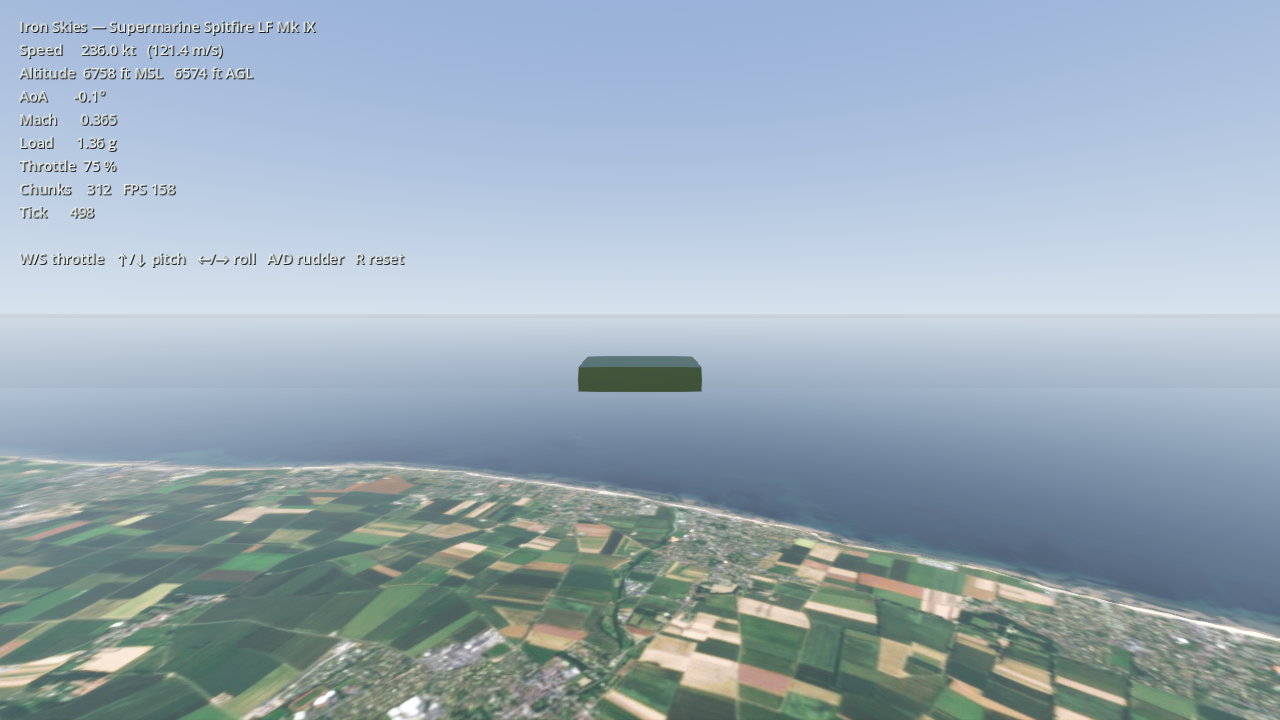
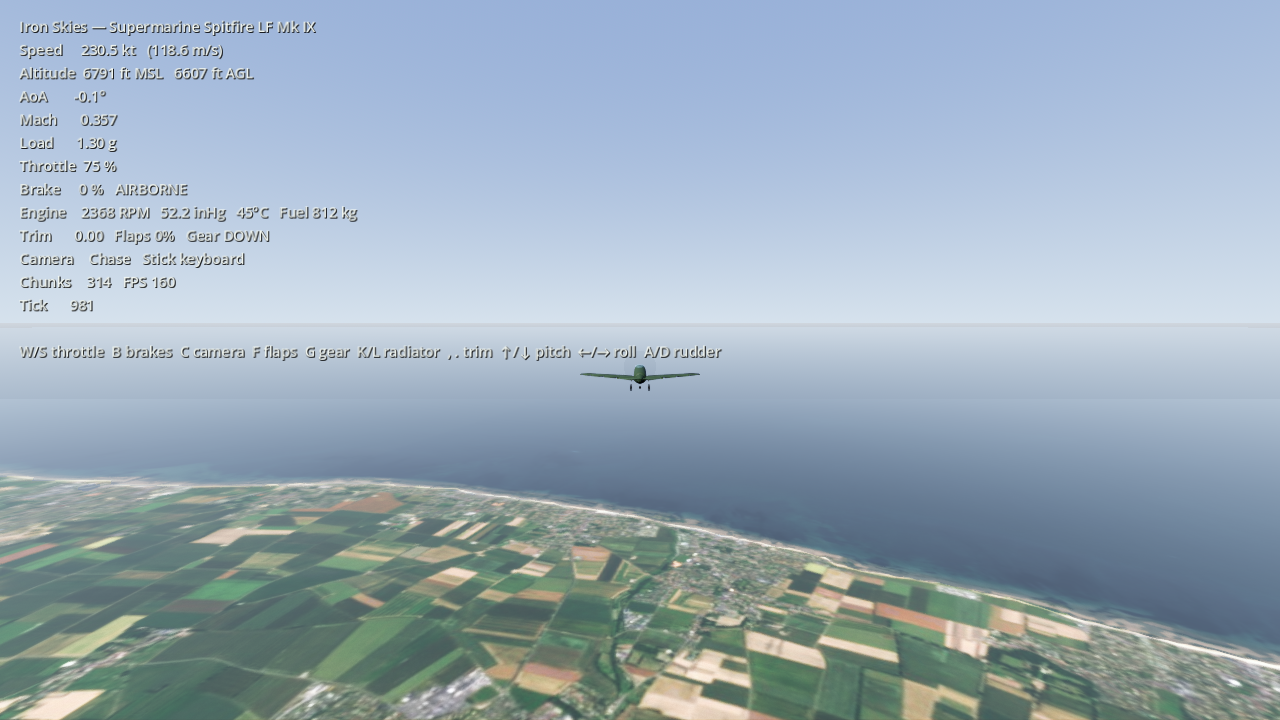
client: low-poly Spitfire silhouette, cockpit panel and animated prop
- custom elliptical wing mesh, tapered fuselage, tailplane, fin, canopy
- prop blur above 350 RPM, flap/gear animation from simulator state
- cockpit eye point with instrument panel and gunsight
- closer chase camera; hide nose/tail cylinder caps that showed inside the cockpit

diff --git a/game/scripts/SpitfireVisual.cs b/game/scripts/SpitfireVisual.cs
@@ -1,0 +1,294 @@
+using System;
+using Godot;
+using IronSkies.FlightModel.Aircraft;
+
+namespace IronSkies.Game;
+
+/// <summary>
+/// Low-poly Spitfire built from primitives and one custom elliptical wing mesh.
+/// Local axes follow the body frame: −Z forward, +X right, +Y up, origin at the CoG.
+/// This is a placeholder silhouette; the art pass replaces it with a proper model.
+/// </summary>
+public sealed partial class SpitfireVisual : Node3D
+{
+    private Node3D _propeller = null!;
+    private MeshInstance3D _propDisc = null!;
+    private readonly System.Collections.Generic.List<MeshInstance3D> _propBlades = new();
+    private Node3D _gearGroup = null!;
+    private Node3D _leftFlap = null!;
+    private Node3D _rightFlap = null!;
+
+    private StandardMaterial3D _camo = null!;
+    private StandardMaterial3D _dark = null!;
+    private StandardMaterial3D _metal = null!;
+    private StandardMaterial3D _glass = null!;
+    private StandardMaterial3D _tyre = null!;
+
+    public void Build()
+    {
+        _camo = Material(new Color(0.20f, 0.27f, 0.17f), 0.65f, 0.05f);
+        _dark = Material(new Color(0.08f, 0.08f, 0.08f), 0.80f);
+        _metal = Material(new Color(0.55f, 0.57f, 0.55f), 0.30f, 0.75f);
+        _tyre = Material(new Color(0.04f, 0.04f, 0.04f), 0.95f);
+        _glass = new StandardMaterial3D
+        {
+            AlbedoColor = new Color(0.55f, 0.70f, 0.75f, 0.22f),
+            Transparency = BaseMaterial3D.TransparencyEnum.Alpha,
+            Roughness = 0.05f,
+            Metallic = 0.20f,
+        };
+
+        BuildFuselage();
+        BuildWings();
+        BuildTail();
+        BuildGear();
+        BuildPropeller();
+        BuildCockpit();
+    }
+
+    public void UpdateFrom(AircraftSimulator sim, double delta)
+    {
+        float rpm = (float)(sim.EngineRpm / 3000.0);
+        _propeller.RotateZ((float)(rpm * 90.0 * delta));
+
+        bool blurred = sim.EngineRpm > 350.0;
+        _propDisc.Visible = blurred;
+        foreach (MeshInstance3D blade in _propBlades)
+        {
+            blade.Visible = !blurred;
+        }
+
+        float flap = (float)sim.FlapPosition * 0.7f;
+        _leftFlap.Rotation = new Vector3(flap, 0.0f, 0.0f);
+        _rightFlap.Rotation = new Vector3(flap, 0.0f, 0.0f);
+
+        _gearGroup.Visible = sim.GearPosition > 0.04;
+        _gearGroup.Scale = new Vector3(1.0f, (float)Math.Max(0.04, sim.GearPosition), 1.0f);
+    }
+
+    private void BuildFuselage()
+    {
+        var fuselage = new CapsuleMesh { Radius = 0.56f, Height = 5.6f, RadialSegments = 20 };
+        AddPart(this, fuselage, _camo, new Vector3(0, 0, 0.15f), new Vector3(90, 0, 0));
+
+        var nose = new CylinderMesh
+        {
+            TopRadius = 0.56f,
+            BottomRadius = 0.30f,
+            Height = 1.4f,
+            RadialSegments = 20,
+            CapTop = false,
+            CapBottom = false,
+        };
+        AddPart(this, nose, _camo, new Vector3(0, 0, -2.85f), new Vector3(90, 0, 0));
+
+        var tailCone = new CylinderMesh
+        {
+            TopRadius = 0.10f,
+            BottomRadius = 0.56f,
+            Height = 2.5f,
+            RadialSegments = 16,
+            CapTop = false,
+            CapBottom = false,
+        };
+        AddPart(this, tailCone, _camo, new Vector3(0, 0, 3.05f), new Vector3(90, 0, 0));
+
+        var spinner = new CylinderMesh
+        {
+            TopRadius = 0.30f,
+            BottomRadius = 0.02f,
+            Height = 0.65f,
+            RadialSegments = 20,
+        };
+        AddPart(this, spinner, _metal, new Vector3(0, 0, -4.02f), new Vector3(90, 0, 0));
+
+        var radiator = new BoxMesh { Size = new Vector3(0.55f, 0.22f, 1.1f) };
+        AddPart(this, radiator, _dark, new Vector3(0, -0.52f, 0.15f));
+
+        var exhaust = new BoxMesh { Size = new Vector3(0.10f, 0.10f, 0.55f) };
+        AddPart(this, exhaust, _dark, new Vector3(-0.48f, 0.10f, -2.45f));
+        AddPart(this, exhaust, _dark, new Vector3(0.48f, 0.10f, -2.45f));
+    }
+
+    private void BuildWings()
+    {
+        ArrayMesh wing = BuildWingMesh(
+            span: 5.55, rootChord: 2.35, tipChord: 0.70, thickness: 0.13,
+            yBase: -0.34, dihedral: 0.34, zCenter: 0.10);
+        AddPart(this, wing, _camo, Vector3.Zero);
+
+        _leftFlap = BuildFlap(-1.25f);
+        _rightFlap = BuildFlap(1.25f);
+    }
+
+    private Node3D BuildFlap(float x)
+    {
+        var pivot = new Node3D { Position = new Vector3(x, -0.31f, 0.62f) };
+        AddChild(pivot);
+        var flap = new BoxMesh { Size = new Vector3(1.45f, 0.06f, 0.46f) };
+        AddPart(pivot, flap, _camo, new Vector3(0, 0, 0.24f));
+        return pivot;
+    }
+
+    private void BuildTail()
+    {
+        ArrayMesh tailplane = BuildWingMesh(
+            span: 1.75, rootChord: 1.35, tipChord: 0.45, thickness: 0.08,
+            yBase: 0.14, dihedral: 0.02, zCenter: 3.65);
+        AddPart(this, tailplane, _camo, Vector3.Zero);
+
+        var fin = new BoxMesh { Size = new Vector3(0.07f, 1.15f, 0.95f) };
+        AddPart(this, fin, _camo, new Vector3(0, 0.62f, 4.02f), new Vector3(-8, 0, 0));
+
+        var rudder = new BoxMesh { Size = new Vector3(0.06f, 1.05f, 0.35f) };
+        AddPart(this, rudder, _camo, new Vector3(0, 0.58f, 4.55f));
+    }
+
+    private void BuildGear()
+    {
+        _gearGroup = new Node3D { Name = "Gear" };
+        AddChild(_gearGroup);
+
+        foreach (float side in new[] { -1.0f, 1.0f })
+        {
+            var leg = new BoxMesh { Size = new Vector3(0.08f, 1.10f, 0.08f) };
+            AddPart(_gearGroup, leg, _metal, new Vector3(side * 0.85f, -0.95f, -0.85f),
+                new Vector3(0, 0, side * 4.0f));
+
+            var wheel = new CylinderMesh { TopRadius = 0.33f, BottomRadius = 0.33f, Height = 0.20f, RadialSegments = 16 };
+            AddPart(_gearGroup, wheel, _tyre, new Vector3(side * 0.85f, -1.50f, -0.85f),
+                new Vector3(0, 0, 90));
+
+            var hub = new CylinderMesh { TopRadius = 0.10f, BottomRadius = 0.10f, Height = 0.22f, RadialSegments = 12 };
+            AddPart(_gearGroup, hub, _metal, new Vector3(side * 0.85f, -1.50f, -0.85f),
+                new Vector3(0, 0, 90));
+        }
+
+        var tailLeg = new BoxMesh { Size = new Vector3(0.06f, 0.40f, 0.06f) };
+        AddPart(_gearGroup, tailLeg, _metal, new Vector3(0, -0.22f, 4.72f));
+        var tailWheel = new CylinderMesh { TopRadius = 0.15f, BottomRadius = 0.15f, Height = 0.10f, RadialSegments = 12 };
+        AddPart(_gearGroup, tailWheel, _tyre, new Vector3(0, -0.41f, 4.90f), new Vector3(0, 0, 90));
+    }
+
+    private void BuildPropeller()
+    {
+        _propeller = new Node3D { Name = "Propeller", Position = new Vector3(0, 0, -4.38f) };
+        AddChild(_propeller);
+
+        for (int i = 0; i < 3; i++)
+        {
+            float angle = Mathf.DegToRad(i * 120.0f);
+            var blade = new BoxMesh { Size = new Vector3(0.13f, 1.55f, 0.05f) };
+            _propBlades.Add(AddPart(_propeller, blade, _dark,
+                new Vector3(Mathf.Sin(angle) * 0.82f, Mathf.Cos(angle) * 0.82f, 0.0f),
+                new Vector3(0, 0, Mathf.RadToDeg(angle))));
+        }
+
+        var disc = new CylinderMesh { TopRadius = 1.65f, BottomRadius = 1.65f, Height = 0.01f, RadialSegments = 32 };
+        _propDisc = AddPart(this, disc, new StandardMaterial3D
+        {
+            AlbedoColor = new Color(0.10f, 0.10f, 0.10f, 0.09f),
+            Transparency = BaseMaterial3D.TransparencyEnum.Alpha,
+            ShadingMode = BaseMaterial3D.ShadingModeEnum.Unshaded,
+        }, new Vector3(0, 0, -4.40f), new Vector3(90, 0, 0));
+        _propDisc.CastShadow = GeometryInstance3D.ShadowCastingSetting.Off;
+        _propDisc.Visible = false;
+    }
+
+    private void BuildCockpit()
+    {
+        var canopy = new SphereMesh { Radius = 0.5f, Height = 0.7f, RadialSegments = 16, Rings = 8 };
+        AddPart(this, canopy, _glass, new Vector3(0, 0.55f, -0.75f),
+            Vector3.Zero, new Vector3(0.95f, 0.75f, 1.50f));
+
+        var panel = new BoxMesh { Size = new Vector3(0.80f, 0.30f, 0.08f) };
+        AddPart(this, panel, _dark, new Vector3(0, 0.28f, -1.38f), new Vector3(-10, 0, 0));
+
+        for (int i = -1; i <= 1; i++)
+        {
+            var gauge = new CylinderMesh { TopRadius = 0.055f, BottomRadius = 0.055f, Height = 0.02f, RadialSegments = 12 };
+            AddPart(this, gauge, _metal, new Vector3(i * 0.20f, 0.30f, -1.43f), new Vector3(90, 0, 0));
+        }
+
+        var sight = new TorusMesh
+        {
+            InnerRadius = 0.075f,
+            OuterRadius = 0.105f,
+            Rings = 16,
+            RingSegments = 8,
+        };
+        AddPart(this, sight, _dark, new Vector3(0, 0.48f, -1.44f), new Vector3(90, 0, 0));
+    }
+
+    private static StandardMaterial3D Material(Color color, float roughness, float metallic = 0.0f) =>
+        new()
+        {
+            AlbedoColor = color,
+            Roughness = roughness,
+            Metallic = metallic,
+        };
+
+    private static MeshInstance3D AddPart(
+        Node3D parent, Mesh mesh, Material material, Vector3 position,
+        Vector3 rotationDegrees = default, Vector3? scale = null)
+    {
+        var node = new MeshInstance3D
+        {
+            Mesh = mesh,
+            MaterialOverride = material,
+            Position = position,
+            RotationDegrees = rotationDegrees,
+            Scale = scale ?? Vector3.One,
+        };
+        parent.AddChild(node);
+        return node;
+    }
+
+    /// <summary>Closed, tapered elliptical wing slab centred on the local X axis.</summary>
+    private static ArrayMesh BuildWingMesh(
+        double span, double rootChord, double tipChord, double thickness,
+        double yBase, double dihedral, double zCenter)
+    {
+        const int segments = 16;
+        var st = new SurfaceTool();
+        st.Begin(Mesh.PrimitiveType.Triangles);
+
+        double Chord(double t) => tipChord + (rootChord - tipChord) * Math.Sqrt(Math.Max(0.0, 1.0 - t * t));
+        double Thickness(double t) => thickness * (1.0 - 0.65 * Math.Abs(t));
+        double Y(double t) => yBase + dihedral * Math.Abs(t);
+        double X(double t) => span * t;
+
+        void Top(double t, double z, double yOffset) => st.AddVertex(new Vector3(
+            (float)X(t), (float)(Y(t) + yOffset), (float)z));
+        void Bottom(double t, double z, double yOffset) => st.AddVertex(new Vector3(
+            (float)X(t), (float)(Y(t) - yOffset), (float)z));
+
+        for (int i = 0; i < segments; i++)
+        {
+            double t0 = -1.0 + 2.0 * i / segments;
+            double t1 = -1.0 + 2.0 * (i + 1) / segments;
+            double c0 = Chord(t0), c1 = Chord(t1);
+            double th0 = Thickness(t0), th1 = Thickness(t1);
+            double le0 = zCenter - c0 / 2.0, te0 = zCenter + c0 / 2.0;
+            double le1 = zCenter - c1 / 2.0, te1 = zCenter + c1 / 2.0;
+
+            // Top (normals up).
+            Top(t0, le0, th0 / 2); Top(t0, te0, th0 / 2); Top(t1, te1, th1 / 2);
+            Top(t0, le0, th0 / 2); Top(t1, te1, th1 / 2); Top(t1, le1, th1 / 2);
+
+            // Bottom (normals down).
+            Bottom(t0, te0, th0 / 2); Bottom(t0, le0, th0 / 2); Bottom(t1, le1, th1 / 2);
+            Bottom(t0, te0, th0 / 2); Bottom(t1, le1, th1 / 2); Bottom(t1, te1, th1 / 2);
+
+            // Leading and trailing edge strips.
+            Top(t0, le0, th0 / 2); Bottom(t0, le0, th0 / 2); Bottom(t1, le1, th1 / 2);
+            Top(t0, le0, th0 / 2); Bottom(t1, le1, th1 / 2); Top(t1, le1, th1 / 2);
+
+            Top(t1, te1, th1 / 2); Bottom(t1, te1, th1 / 2); Bottom(t0, te0, th0 / 2);
+            Top(t1, te1, th1 / 2); Bottom(t0, te0, th0 / 2); Top(t0, te0, th0 / 2);
+        }
+
+        st.GenerateNormals();
+        return st.Commit();
+    }
+}

diff --git a/game/scripts/Main.cs b/game/scripts/Main.cs
@@ -21,7 +21,7 @@ public partial class Main : Node3D
     private AircraftDefinition _definition = null!;
     private Heightmap _heightmap = null!;
     private TerrainWorld _terrain = null!;
-    private MeshInstance3D _aircraft = null!;
+    private SpitfireVisual _aircraft = null!;
     private Camera3D _camera = null!;
     private Label _hud = null!;
 
@@ -111,6 +111,7 @@ public partial class Main : Node3D
         }
 
         _aircraft.GlobalTransform = SimBridge.ToGodot(_sim.State.Orientation, _sim.State.Position);
+        _aircraft.UpdateFrom(_sim, delta);
         _terrain.SetFocus(_aircraft.GlobalPosition);
         UpdateCamera(delta);
 
@@ -452,18 +453,8 @@ public partial class Main : Node3D
 
     private void BuildAircraft()
     {
-        var material = new StandardMaterial3D
-        {
-            AlbedoColor = new Color(0.36f, 0.42f, 0.30f),
-            Metallic = 0.55f,
-            Roughness = 0.35f,
-        };
-
-        _aircraft = new MeshInstance3D
-        {
-            Mesh = new BoxMesh { Size = new Vector3(11.0f, 2.2f, 9.0f) },
-            MaterialOverride = material,
-        };
+        _aircraft = new SpitfireVisual();
+        _aircraft.Build();
         AddChild(_aircraft);
     }
 
@@ -503,7 +494,7 @@ public partial class Main : Node3D
         {
             var cockpitBasis = SimBridge.ToGodot(_sim.State.Orientation);
             Vector3 aircraft = SimBridge.ToGodot(_sim.State.Position);
-            Vector3 eye = aircraft + cockpitBasis.Y * 0.55f + cockpitBasis.Z * -1.6f;
+            Vector3 eye = aircraft + cockpitBasis.Y * 0.55f + cockpitBasis.Z * -0.35f;
             _camera.GlobalTransform = new Transform3D(cockpitBasis, eye);
             return;
         }
@@ -513,7 +504,7 @@ public partial class Main : Node3D
         Vector3 forward = -basis.Z;
         Vector3 up = basis.Y;
 
-        Vector3 desired = position - forward * 34.0f + up * 9.0f;
+        Vector3 desired = position - forward * 26.0f + up * 7.0f;
         double ground = _heightmap.HeightAt(desired.X, -desired.Z);
         desired.Y = Mathf.Max(desired.Y, (float)ground + 3.0f);
 

diff --git a/README.md b/README.md
@@ -10,11 +10,12 @@ with **zero licence fees, zero royalties, and no proprietary dependencies**.
 > slice is targeted for milestone M2 (see [docs/ROADMAP.md](docs/ROADMAP.md)).
 >
 > M0 already starts the Spitfire on its gear, takes off, flies over a streamed
-> 40 × 40 km Normandy terrain with a Sentinel-2 orthophoto and landcover masks.
+> 40 × 40 km Normandy terrain with Sentinel-2 orthophoto/landcover, and has a
+> low-poly aircraft, cockpit view and live engine gauges.
 
 ![Iron Skies M0: 40 × 40 km Normandy terrain](docs/media/m0-normandy-40km.png)
 
-*M0: 40 × 40 km streamed terrain with Sentinel-2 orthophoto and landcover, placeholder aircraft.*
+*M0: low-poly Spitfire over 40 × 40 km streamed terrain with Sentinel-2 orthophoto and landcover.*
 
 ---
 
